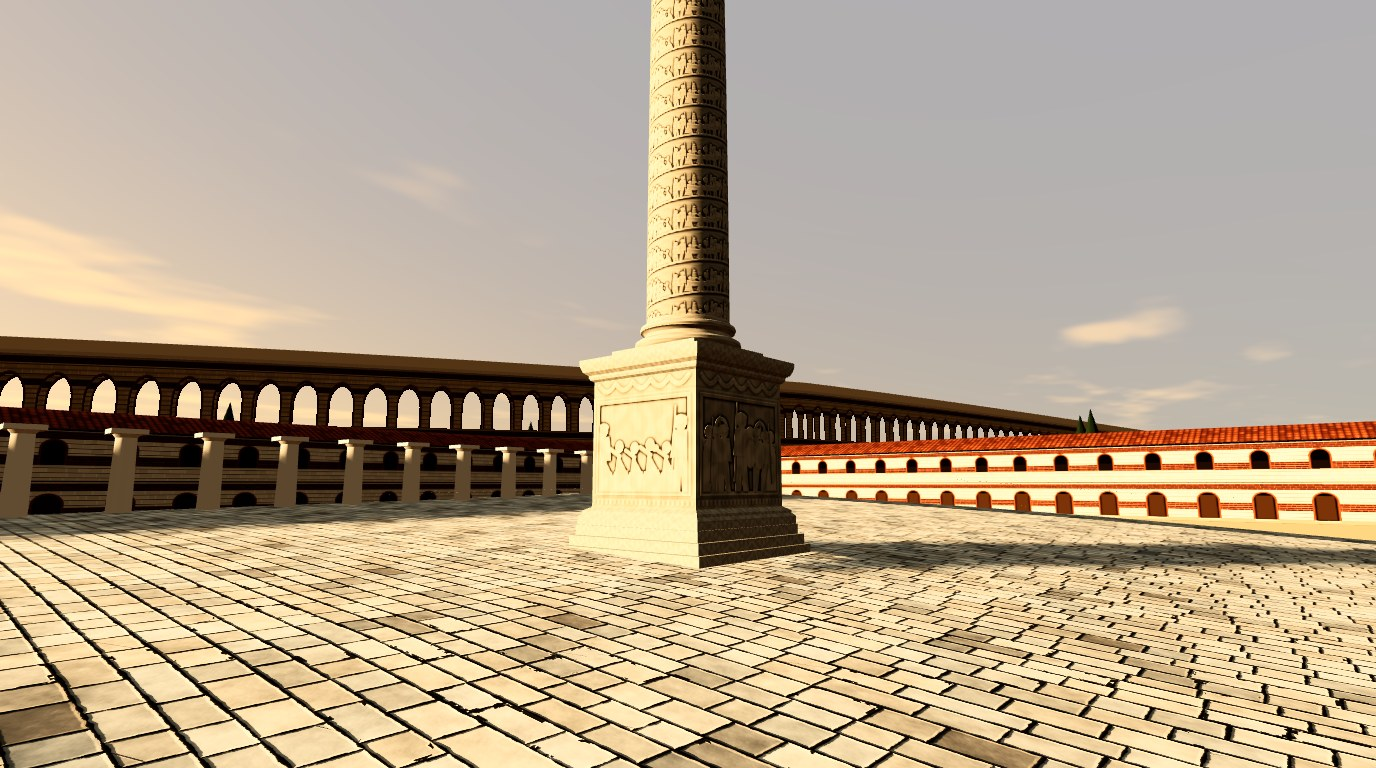
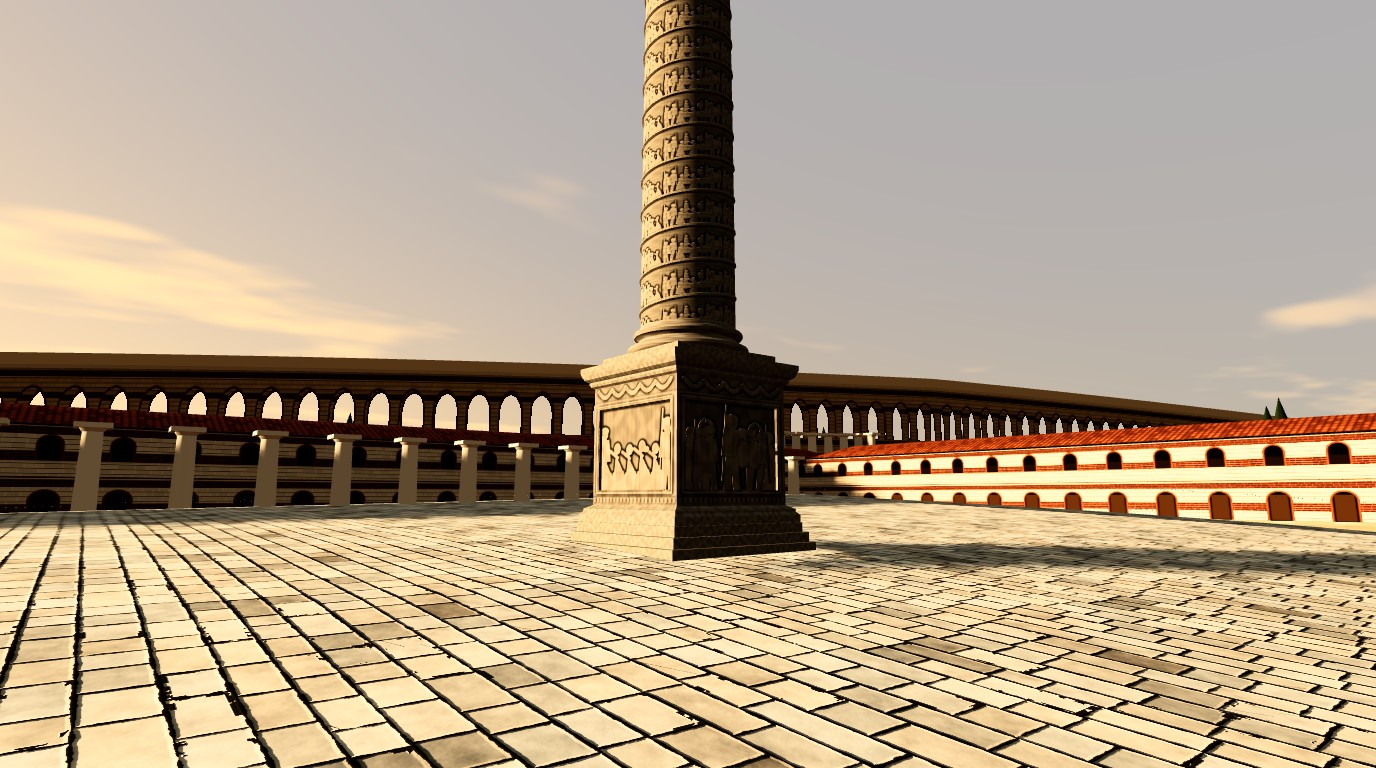
南港 3D 纪功柱修订：浮雕加深（螺旋真棱 + 基座画框真凹）、受光面在地标材质里压暗、像和柱头放大 ——Hark（CS线）
为什么：主人看了 ff84e83 说三条——浮雕在 60 m 外读得浅；受光面太亮（只许改地标材质，sky.js / 全局光不动）；像和柱头比参考小。
- 浮雕：螺旋边带做成真几何凸棱（helixBand：沿贴图亮边带 v=u+2/256 扫 4 点剖面，凸 0.07 m，下面朝下，低太阳照不到 → 真暗线；近档 72 段/圈、远档 16 段/圈、施工中截到当年柱顶）；基座四面画框里的场真凹 0.12 m + 侧壁；浮雕法线 9→14、凹缝 AO 加深烘进反照率。
- 亮度：反照率压（柱身 [186,174,152]→[154,145,130]、基座/线脚同比、远档同比）、凹处暖色风化（relief 新参数 aoMin/low/patina，默认值同旧，别的调用不变）、像压暗收高光。
- 比例：柱头 2.6→4.0 m（≈柱下径，合科林斯常规）、像座 3.0→3.8、像 7.5→9.3 m；基座 8.75→7.3 m、宽 ×0.89，柱身 27→25.6 m；总高 51.05→51.95 m。像没重烘，按尺寸等比放大。

不变量：
- 底账无改动（forum_theodosius 中心/seed、era_0051 phases：64 年立到顶，58–63 施工中）。core.js、shots.json、sky.js、buildings.js 都没动；只改 3d/landmarks/column.js 和 kit/relief.js。
- 柱头仍是科林斯式；施工阶段、THREE.LOD 近/远、?lmmask=1、确定性（只用 seed，无 Math.random）照旧。年份 57/58/60/63/64/65/70 来回拨无报错。

证据（沙箱 SwiftShader，只看样子；帧率待 Mac 实测），docs/cs/lookdev/landmarks/column/：overview.jpg、sbs_shot5.jpg（参考 | ff84e83 | 修订）、zoom_shot5.jpg、after_base_close.jpg、after_far_year65.jpg、silhouette_after.png / silhouette_ff84e83.png、numbers.json（revision_2026_10_20b）、notes.md「修订」节。
- 机位 5（3 轮）：IoU 框 0.749→0.827、按高 0.789→0.858；高宽比 4.37→5.00（参考 5.35）；像/柱头/柱身/基座 0.163/0.049/0.552/0.235→0.204/0.067/0.532/0.197（参考 0.220/0.074/0.521/0.185）。
- 柱子蒙版内：L* 54.2→41.9（39.9）、受光面 p90 95.5→88.8（84.5）、边缘 0.218→0.326（0.295）。
- match.py --against ff84e83 同机位重渲：机位 1–4 全局 + 12 带 ΔL*=0.00、边缘 +0.0%；逐像素只有机位 1 的 61 像素（51 在柱子蒙版 ±3 px，10 在下面一行影子）。
- 三角形：近档 33,484→41,288、远档 2,204→3,920、第 60 年施工中 3,090→4,180；几何建造 ≈37 ms。check_docs 0 missing、check_flags 通过。
[…]

diff --git a/docs/living/nodes/nangang/3d/landmarks/column.js b/docs/living/nodes/nangang/3d/landmarks/column.js
@@ -5,8 +5,8 @@
      58–63 年画施工中（基座 + 按年份长高的柱身鼓石 + 木脚手架），57 年只有广场没有柱子。
    史料（形制，底账没写的部分；来源见 docs/cs/lookdev/landmarks/column/notes.md）：白色大理石、螺旋浮雕带（自左向右上升）、仿图拉真柱，
    总高约 40–50 m；顶上是狄奥多西的巨像（镀银青铜）。假设：柱头做科林斯式（主人要茛苕叶；图拉真柱其实是多立克式）、基座四面浮雕、像的姿势。
-   尺寸（米，自台阶底起）：台阶 3 级 1.8 → 基座（线脚 + 浮雕身 + 檐口）到 9.5 → 阿提卡柱础到 11.35 → 柱身 27 m（17 节鼓石、18 圈浮雕、收分 1.95→1.70）
-   → 柱头 2.2 → 像座 1.65 → 像 5.3，总高 ≈ 47.9 m ≈ 57 页面像素（1 像素 ≈ 0.84 米）。
+   尺寸（米，自台阶底起；2026-10-20 第二遍修订后，见 DIM）：台阶 3 级 1.1 → 基座（线脚 + 浮雕身 + 檐口）到 7.3 → 阿提卡柱础到 8.9 → 柱身 25.6 m
+   （17 节鼓石、18 圈浮雕 + 一条真几何的螺旋边棱、收分 1.95→1.70）→ 柱颈环 → 柱头 4.0 → 像座 3.8 → 像 9.3，总高 51.95 m ≈ 61.8 页面像素（1 像素 ≈ 0.84 米）。
    结构：近档（细节、法线贴图、烘焙雕像）/ 远档（几十个面的旋转体 + 低模像）用 THREE.LOD 按到相机的距离切（450 像素）。
    确定性：贴图和叶片的变化只用底账的 seed。?lmmask=1 把所有地标材质换成纯品红（silhouette.py 用来抠轮廓）。 */
 import { lathe, squareLathe, merge, box } from './kit/lathe.js';
@@ -20,7 +20,13 @@ const STATUE_LO = await loadBaked(new URL('./column/statue_lo.bin', import.meta.
 export const id = 'forum_theodosius';
 export const PHASE = { pedestal: 58, top: 64 };          // proposals/era_0051.json：64 年立到顶；58 年起基座（假设：开工第二年）
 const K = 1 / 0.84;                                        // 米 → 页面像素
-export const DIM = { steps: 1.35, pedTop: 8.75, shaft0: 10.6, shaft1: 37.6, cap0: 37.95, cap1: 40.55, drum1: 43.55, statue: 7.5 };
+// 2026-10-20 修订（主人：像和柱头比参考小）：柱头 2.6→4.0 m（科林斯柱头高 ≈ 柱下径 3.9 m，合规矩）、像座 3.0→3.8、像 7.5→9.3 m（≈ 真人 5 倍）；
+// 总高只涨 0.9 m（51.05→51.95）：基座 8.75→7.3 m、基座宽 ×0.89（参考的基座更瘦更矮）、柱础 1.85→1.6 m、柱身 27→25.6 m。
+export const DIM = { steps: 1.1, pedTop: 7.3, shaft0: 8.9, shaft1: 34.5, cap0: 34.85, cap1: 38.85, drum1: 42.65, statue: 9.3 };
+const PV = 7.3 / 8.75, PW = 0.89;                          // 基座剖面（原来按 8.75 m 高写的）竖向 / 横向缩放
+const BASE = y => DIM.pedTop + (y - 8.75) * (DIM.shaft0 - DIM.pedTop) / (10.6 - 8.75);   // 柱础剖面（原 8.75→10.6）映到 pedTop→shaft0
+const DRUM = y => DIM.cap1 + (y - 40.55) * (DIM.drum1 - DIM.cap1) / (43.55 - 40.55);       // 像座剖面（原 40.55→43.55）映到 cap1→drum1
+const DR = 1.1;                                           // 像座加粗一点，托得住 9 m 的像
 const WIND = 18, DRUMS = 17, LOD_FAR = 450;
 
 let T = null, M = null, CACHE = null;
@@ -60,10 +66,10 @@ function shaftTex(seed) {
       }
       // 边带（略凸的窄条），画在人物之后，压住脚
       g.strokeStyle = 'rgb(245,245,245)'; g.lineWidth = 18; g.beginPath(); g.moveTo(-40, H + 40 / W * H - 2); g.lineTo(W + 40, H - (W + 40) / W * H - 2); g.stroke();
-      g.strokeStyle = 'rgb(0,0,0)'; g.lineWidth = 22; g.beginPath(); g.moveTo(-40, H + 40 / W * H + 20); g.lineTo(W + 40, H - (W + 40) / W * H + 20); g.stroke();
+      g.strokeStyle = 'rgb(40,40,40)'; g.lineWidth = 18;   // 边带下的暗缝：真几何的下棱已经给了阴影，贴图里不再画死黑 g.beginPath(); g.moveTo(-40, H + 40 / W * H + 20); g.lineTo(W + 40, H - (W + 40) / W * H + 20); g.stroke();
       g.restore();
     }
-  }, { seed, wrapX: true, wrapY: true, blur: 1, strength: 9, aoR: 8, ao: 4.0, base: [186, 174, 152], dirt: 0.1 });
+  }, { seed, wrapX: true, wrapY: true, blur: 1, strength: 14, aoR: 8, ao: 5.0, aoMin: 0.36, low: 0.18, base: [154, 145, 130], dirt: 0.12, streak: 0.06, patina: 0.35 });
 }
 
 function pedestalTex(seed) {
@@ -92,11 +98,11 @@ function pedestalTex(seed) {
       rect(g, 0, S - 40, S, 40, 0.55); for (let x = 8; x < S; x += 22) rect(g, x, S - 30, 12, 20, 0.7);
       g.restore();
     }
-  }, { seed, blur: 1, strength: 7, aoR: 7, ao: 3.0, base: [188, 174, 150], dirt: 0.1, streak: 0.05 });
+  }, { seed, blur: 1, strength: 11, aoR: 7, ao: 4.5, aoMin: 0.34, low: 0.2, base: [148, 139, 125], dirt: 0.12, streak: 0.07, patina: 0.3 });
 }
 
 function marbleTex(seed) {
-  return relief(T, 256, 256, (g) => { rect(g, 0, 0, 256, 256, 0.5); for (let y = 0; y < 256; y += 64) rect(g, 0, y, 256, 2, 0.35); }, { seed, wrapX: true, wrapY: true, blur: 1, strength: 2, aoR: 3, ao: 1.2, base: [190, 178, 156], dirt: 0.12 });
+  return relief(T, 256, 256, (g) => { rect(g, 0, 0, 256, 256, 0.5); for (let y = 0; y < 256; y += 64) rect(g, 0, y, 256, 2, 0.35); }, { seed, wrapX: true, wrapY: true, blur: 1, strength: 2, aoR: 3, ao: 1.2, base: [150, 142, 128], dirt: 0.14, patina: 0.25 });
 }
 
 export function init(ctx) {
@@ -109,8 +115,8 @@ export function init(ctx) {
     ped: new T.MeshLambertMaterial({ map: pd.map, normalMap: pd.normalMap, normalScale: ns }),
     marble: new T.MeshLambertMaterial({ map: mb.map, normalMap: mb.normalMap }),
     cap: new T.MeshLambertMaterial({ map: mb.map, side: T.DoubleSide }),
-    statue: new T.MeshPhongMaterial({ color: 0x968c7c, specular: 0x8a7e6a, shininess: 34 }),     // 镀银青铜（史料），按风化后的暗银处理；假设：不鎏金
-    far: new T.MeshLambertMaterial({ color: 0xbcae94 }),
+    statue: new T.MeshPhongMaterial({ color: 0x7c7366, specular: 0x4a443a, shininess: 24 }),     // 镀银青铜（史料），按风化后的暗银处理；假设：不鎏金
+    far: new T.MeshLambertMaterial({ color: 0x9b917f }),
     timber: new T.MeshLambertMaterial({ color: 0x7b5b3c }),
   };
   if (ctx.QS.has('lmmask')) { const mk = new T.MeshBasicMaterial({ color: 0xff00ff, fog: false, toneMapped: false, side: T.DoubleSide }); for (const k in M) M[k] = mk; }
@@ -118,27 +124,56 @@ export function init(ctx) {
 
 /* ---- 几何（局部坐标：原点 = 台阶底面中心，y 向上，单位 = 页面像素；基座顺 (ax, az)） ---- */
 function pedestalGeos(ax, az) {
-  const s = (h, y) => [h * K, y * K];
+  const s = (h, y) => [h * PW * K, y * PV * K];
   const steps = squareLathe(T, [s(3.95, -3), s(3.95, 0.45), s(3.75, 0.45), s(3.75, 0.9), s(3.55, 0.9), s(3.55, 1.35)], { ax, az, uv: 4 });
   const plinth = squareLathe(T, [s(3.5, 1.35), s(3.5, 1.7), s(3.36, 1.84), s(3.36, 1.96), s(3.22, 2.04), s(3.1, 2.1), s(3.05, 2.14)], { ax, az, uv: 4, top: false });
   const cornice = squareLathe(T, [s(3.05, 7.75), s(3.18, 7.83), s(3.24, 7.94), s(3.24, 8.05), s(3.42, 8.18), s(3.5, 8.36), s(3.55, 8.55), s(3.55, 8.75)], { ax, az, uv: 4 });
   // 浮雕身：四个面，图集四格
-  const P = [], U = [], h = 3.05 * K, y0 = 2.14 * K, y1 = 7.75 * K, C = (u, v) => [ax * u - az * v, az * u + ax * v];
+  const P = [], U = [], h = 3.05 * PW * K, y0 = 2.14 * PV * K, y1 = 7.75 * PV * K, C = (u, v) => [ax * u - az * v, az * u + ax * v];
   const k = [C(-h, h), C(h, h), C(h, -h), C(-h, -h)]; // 南面（+v）、东、北、西：逆时针从外看
   const cells = [[0, 1], [1, 1], [0, 0], [1, 0]];        // 画布 2×2：左上=南 右上=东 左下=北 右下=西（v 向上 → 画布上半 = v 0.5..1）
+  // 浮雕画框里的「场」真的往里凹 0.12 m（画框 = 贴图里 frame() 的内边：x 38–474、y 100–450，512 一格），四圈侧壁；凹进去的场在侧光下有一圈真阴影
+  const FX = [38 / 512, 474 / 512], FY = [100 / 512, 450 / 512], dep = 0.12 * K;
   for (let i = 0; i < 4; i++) {
     const a = k[i], b = k[(i + 1) % 4], [cu, cv] = cells[i], u0 = cu * .5, v0 = cv * .5;
-    const q = [[a[0], y0, a[1]], [b[0], y0, b[1]], [b[0], y1, b[1]], [a[0], y1, a[1]]], uq = [[u0, v0], [u0 + .5, v0], [u0 + .5, v0 + .5], [u0, v0 + .5]];
-    for (const j of [0, 1, 2, 0, 2, 3]) { P.push(...q[j]); U.push(...uq[j]); }
+    const ex = b[0] - a[0], ez = b[1] - a[1], el = Math.hypot(ex, ez), nx = ez / el, nz = -ex / el;   // 指向里面的法线（a→b 从外看是从左到右）
+    const pt = (px, cy, inset) => { const y = y1 + (y0 - y1) * cy, x = a[0] + ex * px + nx * inset, z = a[1] + ez * px + nz * inset; return [[x, y, z], [u0 + .5 * px, v0 + .5 * (1 - cy)]]; };
+    const quad = (A, B, C, D) => { for (const v of [A, B, C, A, C, D]) { P.push(...v[0]); U.push(...v[1]); } };
+    const sq = (px0, cy0, px1, cy1, ins) => quad(pt(px0, cy1, ins), pt(px1, cy1, ins), pt(px1, cy0, ins), pt(px0, cy0, ins));   // 下左 → 下右 → 上右 → 上左（cy 向下）
+    sq(0, 0, 1, FY[0], 0); sq(0, FY[1], 1, 1, 0); sq(0, FY[0], FX[0], FY[1], 0); sq(FX[1], FY[0], 1, FY[1], 0);   // 画框四边（面上）
+    sq(FX[0], FY[0], FX[1], FY[1], dep);                                                                       // 凹进去的场
+    const c = [[FX[0], FY[1]], [FX[1], FY[1]], [FX[1], FY[0]], [FX[0], FY[0]]];                                   // 场的四角：下左、下右、上右、上左
+    for (let e = 0; e < 4; e++) { const [p0, q0] = c[e], [p1, q1] = c[(e + 1) % 4]; quad(pt(p0, q0, 0), pt(p1, q1, 0), pt(p1, q1, dep), pt(p0, q0, dep)); }   // 侧壁（法线朝场里）
   }
   const die = new T.BufferGeometry(); die.setAttribute('position', new T.Float32BufferAttribute(P, 3)); die.setAttribute('uv', new T.Float32BufferAttribute(U, 2)); die.computeVertexNormals();
   return { stone: [steps, plinth, cornice], die };
 }
 
+/* 螺旋带的真几何：沿浮雕贴图里那条亮边带（v = u + 2/256，一圈一个节距）扫一条凸出的窄棱。
+   下面是朝下的面（低太阳照不到 → 一条真的暗线），上面是斜面；60 m 外读得出螺旋，贴图法线做不到这个。 */
+function helixBand(perTurn, depth, yTop = DIM.shaft1) {
+  const pitch = (DIM.shaft1 - DIM.shaft0) / WIND, n = Math.floor(WIND * perTurn), P = [], N = [];
+  const prof = [[-0.01, -0.09], [depth, -0.045], [depth * 0.8, 0.04], [-0.01, 0.09]];      // (径向外凸 m, 竖向 m)，相对带中心
+  const segN = []; for (let k = 0; k < 3; k++) { const [r0, y0] = prof[k], [r1, y1] = prof[k + 1], L = Math.hypot(r1 - r0, y1 - y0); segN.push([(y1 - y0) / L, -(r1 - r0) / L]); }
+  const at = (t, k) => { const yc = DIM.shaft0 + (t + 2 / 256) * pitch, th = t * Math.PI * 2, r = (shaftR(yc) * 0.995 + prof[k][0]) * K, y = (yc + prof[k][1]) * K; return [r * Math.cos(th), y, -r * Math.sin(th), th]; };
+  for (let i = 0; i < n; i++) {
+    const t0 = i / perTurn, t1 = (i + 1) / perTurn;
+    if (DIM.shaft0 + (t1 + 2 / 256) * pitch + 0.1 > yTop) break;
+    for (let k = 0; k < 3; k++) {
+      const a = at(t0, k), b = at(t1, k), c = at(t1, k + 1), d = at(t0, k + 1), [nr, ny] = segN[k];
+      const q = [a, b, c, a, c, d];
+      for (const v of q) { P.push(v[0], v[1], v[2]); N.push(nr * Math.cos(v[3]), ny, -nr * Math.sin(v[3])); }
+    }
+  }
+  const g = new T.BufferGeometry(); g.setAttribute('position', new T.Float32BufferAttribute(P, 3)); g.setAttribute('normal', new T.Float32BufferAttribute(N, 3));
+  const U = new Float32Array(P.length / 3 * 2); for (let i = 0; i < U.length / 2; i++) { U[i * 2] = P[i * 3] / K / 1.5; U[i * 2 + 1] = P[i * 3 + 1] / K / 1.5; } g.setAttribute('uv', new T.BufferAttribute(U, 2));
+  return g;
+}
+
 function baseAndShaft(segs, yTop = DIM.shaft1) {
   const s = (r, y) => [r * K, y * K];
-  const plinth = squareLathe(T, [s(2.5, 8.75), s(2.5, 9.2)], { uv: 4 });
-  const base = lathe(T, [s(2.3, 9.2), s(2.42, 9.29), s(2.48, 9.43), s(2.45, 9.57), s(2.3, 9.67), s(2.12, 9.71), s(2.02, 9.81), s(1.99, 9.93), s(2.08, 10.03), s(2.2, 10.07), s(2.25, 10.19), s(2.2, 10.31), s(2.06, 10.37), s(2.0, 10.39), s(2.0, 10.47), s(1.95, 10.6)], segs, { v: y => y / K / 1.5 });
+  const plinth = squareLathe(T, [s(2.5, BASE(8.75)), s(2.5, BASE(9.2))], { uv: 4 });
+  const base = lathe(T, [[2.3, 9.2], [2.42, 9.29], [2.48, 9.43], [2.45, 9.57], [2.3, 9.67], [2.12, 9.71], [2.02, 9.81], [1.99, 9.93], [2.08, 10.03], [2.2, 10.07], [2.25, 10.19], [2.2, 10.31], [2.06, 10.37], [2.0, 10.39], [2.0, 10.47], [1.95, 10.6]].map(([r, y]) => s(r, BASE(y))), segs, { v: y => y / K / 1.5 });
   const prof = [];
   const top = Math.min(yTop, DIM.shaft1), dz = (DIM.shaft1 - DIM.shaft0) / DRUMS;
   for (let i = 0; i < DRUMS; i++) {
@@ -154,9 +189,10 @@ function baseAndShaft(segs, yTop = DIM.shaft1) {
 
 function topGeos(segs, far) {
   const s = (r, y) => [r * K, y * K];
-  const astr = lathe(T, [s(1.72, 37.6), s(1.8, 37.67), s(1.8, 37.8), s(1.72, 37.87), s(1.7, 37.95)], segs);
-  const drum = lathe(T, [s(1.5, 40.55), s(1.5, 40.75), s(1.36, 40.92), s(1.3, 41.0), s(1.3, 43.15), s(1.4, 43.28), s(1.5, 43.46), s(1.5, 43.55), s(0, 43.56)], segs, { v: y => y / K / 1.5 });
-  const cap = corinthian(T, { r: 1.7 * K, h: 2.6 * K, a: 2.85 * K, seed: 11, lod: far ? 'far' : 'near' });
+  const a0 = DIM.shaft1, da = DIM.cap0 - DIM.shaft1;       // 柱颈环（astragal）
+  const astr = lathe(T, [s(1.72, a0), s(1.8, a0 + da * .2), s(1.8, a0 + da * .57), s(1.72, a0 + da * .77), s(1.7, a0 + da)], segs);
+  const drum = lathe(T, [[1.5, 40.55], [1.5, 40.75], [1.36, 40.92], [1.3, 41.0], [1.3, 43.15], [1.4, 43.28], [1.5, 43.46], [1.5, 43.55]].map(([r, y]) => s(r * DR, DRUM(y))).concat([s(0, DIM.drum1 + .01)]), segs, { v: y => y / K / 1.5 });
+  const cap = corinthian(T, { r: 1.7 * K, h: (DIM.cap1 - DIM.cap0) * K, a: 3.0 * K, seed: 11, lod: far ? 'far' : 'near' });
   cap.translate(0, DIM.cap0 * K, 0);
   return { stone: [astr, drum], cap };
 }
@@ -173,6 +209,7 @@ function nearGroup(ax, az, rotY) {
   G.add(meshOf(merge(T, [...pd.stone, ...bs.stone, ...tp.stone]), M.marble));
   G.add(meshOf(pd.die, M.ped));
   G.add(meshOf(bs.shaft, M.shaft));
+  G.add(meshOf(helixBand(72, 0.07), M.marble));
   G.add(meshOf(tp.cap, M.cap));
   G.add(statueMesh(STATUE_HI, M.statue, rotY));
   return G;
@@ -180,11 +217,13 @@ function nearGroup(ax, az, rotY) {
 function farGroup(ax, az, rotY) {
   const G = new T.Group(); G.name = 'column-far';
   const s = (h, y) => [h * K, y * K];
-  const ped = squareLathe(T, [s(3.95, -3), s(3.95, 1.35), s(3.5, 1.35), s(3.5, 2.1), s(3.05, 2.14), s(3.05, 7.8), s(3.55, 8.3), s(3.55, 8.75)], { ax, az, uv: 4 });
-  const col = lathe(T, [s(2.4, 8.75), s(2.4, 9.75), s(1.95, 10.6), s(1.7, 37.6), s(1.8, 37.75), s(1.7, 37.95)], 10);
-  const drum = lathe(T, [s(1.5, 40.55), s(1.3, 41.0), s(1.3, 43.2), s(1.5, 43.55), s(0, 43.56)], 8);
-  const cap = corinthian(T, { r: 1.7 * K, h: 2.6 * K, a: 2.85 * K, lod: 'far' }); cap.translate(0, DIM.cap0 * K, 0);
+  const sp = (h, y) => [h * PW * K, y * PV * K];
+  const ped = squareLathe(T, [sp(3.95, -3), sp(3.95, 1.35), sp(3.5, 1.35), sp(3.5, 2.1), sp(3.05, 2.14), sp(3.05, 7.8), sp(3.55, 8.3), sp(3.55, 8.75)], { ax, az, uv: 4 });
+  const col = lathe(T, [s(2.4, DIM.pedTop), s(2.4, BASE(9.75)), s(1.95, DIM.shaft0), s(1.7, DIM.shaft1), s(1.8, DIM.shaft1 + .15), s(1.7, DIM.cap0)], 10);
+  const drum = lathe(T, [s(1.5 * DR, DIM.cap1), s(1.3 * DR, DRUM(41.0)), s(1.3 * DR, DRUM(43.2)), s(1.5 * DR, DIM.drum1), s(0, DIM.drum1 + .01)], 8);
+  const cap = corinthian(T, { r: 1.7 * K, h: (DIM.cap1 - DIM.cap0) * K, a: 3.0 * K, lod: 'far' }); cap.translate(0, DIM.cap0 * K, 0);
   G.add(meshOf(merge(T, [ped, col, drum, cap]), M.far));
+  G.add(meshOf(helixBand(16, 0.10), M.far));            // 远档也留螺旋带的暗棱（天际线上读得出是螺旋柱）
   G.add(statueMesh(STATUE_LO, M.statue, rotY));
   return G;
 }
@@ -197,7 +236,7 @@ function construction(ax, az, year) {
   const parts = [...pd.stone];
   let shaft = null;
   if (nd > 0) { const bs = baseAndShaft(32, top); parts.push(...bs.stone); shaft = bs.shaft; }
-  G.add(meshOf(merge(T, parts), M.marble)); G.add(meshOf(pd.die, M.ped)); if (shaft) G.add(meshOf(shaft, M.shaft));
+  G.add(meshOf(merge(T, parts), M.marble)); G.add(meshOf(pd.die, M.ped)); if (shaft) { G.add(meshOf(shaft, M.shaft)); G.add(meshOf(helixBand(36, 0.07, top), M.marble)); }
   // 脚手架：8 根立杆绕柱身，每 2 m 一圈横杆，顶上一层平台
   const yA = DIM.pedTop * K, yB = (Math.max(top, DIM.pedTop + 2) + 2.5) * K, R0 = 3.0 * K, sc = [];
   for (let i = 0; i < 8; i++) { const a = i / 8 * Math.PI * 2; sc.push(box(T, .09 * K, (yB - yA) / 2, .09 * K, Math.cos(a) * R0, (yA + yB) / 2, Math.sin(a) * R0)); }

diff --git a/docs/living/nodes/nangang/3d/landmarks/kit/relief.js b/docs/living/nodes/nangang/3d/landmarks/kit/relief.js
@@ -1,7 +1,8 @@
 /* landmarks 部件 · 程序化浮雕贴图：高度图（画布里画灰度形状）→ 模糊 → 法线贴图 + 带凹缝暗部的反照率贴图。——Hark（CS线）2026-10-20
    不贴照片、不下载：所有人物、花环、框都是代码画的形状。确定性：随机一律用 rng(seed)（mulberry32）。
    不用 ctx.filter（Safari 不支持），模糊自己做（可分离盒式模糊，两遍 ≈ 高斯）。
-     const R = relief(T, W, H, (g, rng) => {...画高度：黑 = 最深，白 = 最高...}, {seed, blur, strength, base, ao})
+     const R = relief(T, W, H, (g, rng) => {...画高度：黑 = 最深，白 = 最高...}, {seed, blur, strength, base, ao, aoMin, low, patina})
+       aoMin = 凹缝最暗到多少（默认 0.42）；low = 高度 0 的「地」额外压暗多少（默认 0.1 = 以前的 0.9+0.1h）；patina = 暖色风化 0..1
      → {map, normalMap}（CanvasTexture；map 是 sRGB，normalMap 是线性）
    画人物的小函数（figure / captive / victory / garland / frame）在这里，凯旋门、方尖碑底座等以后照样用。 */
 export function rng(seed) {
@@ -38,7 +39,7 @@ export function relief(T, W, H, paint, opt = {}) {
   for (let i = 0; i < W * H; i++) h[i] = src[i * 4] / 255;
   h = boxBlur(boxBlur(h, W, H, opt.blur ?? 1, wrapX, wrapY), W, H, opt.blur ?? 1, wrapX, wrapY);
   const big = boxBlur(boxBlur(h, W, H, opt.aoR ?? 6, wrapX, wrapY), W, H, opt.aoR ?? 6, wrapX, wrapY);
-  const s = opt.strength ?? 6, base = opt.base ?? [236, 227, 210], aoK = opt.ao ?? 2.2, dirt = opt.dirt ?? 0.06;
+  const s = opt.strength ?? 6, base = opt.base ?? [236, 227, 210], aoK = opt.ao ?? 2.2, dirt = opt.dirt ?? 0.06, aoMin = opt.aoMin ?? 0.42, lowK = opt.low ?? 0.1, pat = opt.patina ?? 0;
   const nimg = g.createImageData(W, H), aimg = g.createImageData(W, H), N = nimg.data, A = aimg.data;
   const at = (x, y) => h[(wrapY ? (y % H + H) % H : Math.max(0, Math.min(H - 1, y))) * W + (wrapX ? (x % W + W) % W : Math.max(0, Math.min(W - 1, x)))];
   // 低频斑驳（风化）：几层不同尺度的确定性正弦和，避免再开一个噪声库
@@ -49,10 +50,12 @@ export function relief(T, W, H, paint, opt = {}) {
     const L = Math.hypot(nx, ny, nz); nx /= L; ny /= L; nz /= L;
     N[i * 4] = (nx * .5 + .5) * 255; N[i * 4 + 1] = (ny * .5 + .5) * 255; N[i * 4 + 2] = (nz * .5 + .5) * 255; N[i * 4 + 3] = 255;
     const cav = Math.max(0, big[i] - h[i]);
-    const ao = Math.max(0.42, 1 - aoK * cav) * (0.9 + 0.1 * h[i]);
+    const ao = Math.max(aoMin, 1 - aoK * cav) * (1 - lowK * (1 - h[i]));   // 凹缝（cavity）压暗 + 越深的「地」越暗（lowK）
     let m = 0; for (let k = 0; k < 6; k++) m += Math.sin((x / W) * fr[k] * 6.283 * (wrapX ? 1 : 1.3) + ph[k]) * Math.sin((y / H) * fr[(k + 2) % 6] * 6.283 + ph[(k + 3) % 6]);
     const w = 1 - dirt * (0.5 + 0.5 * Math.tanh(m)) - (opt.streak ? opt.streak * Math.max(0, Math.sin(x * 0.37 + ph[1]) * Math.sin(x * 0.11 + ph[2])) : 0);
-    A[i * 4] = Math.min(255, base[0] * ao * w); A[i * 4 + 1] = Math.min(255, base[1] * ao * w); A[i * 4 + 2] = Math.min(255, base[2] * ao * w * 0.985); A[i * 4 + 3] = 255;
+    // 暖色风化（patina）：另一组低频起伏决定往赭黄偏多少，凹处偏得多一点（积灰）；pat = 0 时和以前一样
+    const pw = pat * (0.5 + 0.5 * Math.tanh(1.5 * Math.sin((x / W) * fr[4] * 6.283 + ph[5]) * Math.sin((y / H) * fr[1] * 3.1 + ph[0]))) * (0.6 + 0.8 * Math.min(1, cav * 6));
+    A[i * 4] = Math.min(255, base[0] * ao * w * (1 + 0.03 * pw)); A[i * 4 + 1] = Math.min(255, base[1] * ao * w * (1 - 0.03 * pw)); A[i * 4 + 2] = Math.min(255, base[2] * ao * w * (0.985 - 0.12 * pw)); A[i * 4 + 3] = 255;
   }
   const mk = (img, srgb) => {
     const c = document.createElement('canvas'); c.width = W; c.height = H; c.getContext('2d').putImageData(img, 0, 0);

diff --git a/NOW.md b/NOW.md
@@ -17,16 +17,17 @@
 | 长卷街区细化（街名路牌、招牌、坡地台基台阶、柱廊额枋） | scroll.html | 10-20 提交 b506e82、ff210df | 待评 |
 | 居民：姿势引擎 + 人群 + 户籍关系 | scroll.html?n=net&crowd=N | tools/cs/people/README.md；Mac 实测一万人 100 fps | 模型不再细抠（10-19）；关系接入待评 |
 | 3D lookdev 第 2 轮（8 模块合并：低太阳 + 调色、立面/柱廊/粮仓、石板街、港水倒影、区外陆地和远岸、船吊车货堆、树、5966 口人） | docs/living/nodes/nangang/3d.html（`?shot=1..4` 看固定机位） | `docs/cs/lookdev/r2/report.md`、`docs/cs/lookdev/r2/overview.jpg`；沙箱：模块验收 9/12 条过，三角形 1.58–1.60 M | 待评（帧率待 Mac 实测） |
-| 3D 地标试点：狄奥多西广场纪功柱（landmarks 模块第一座） | docs/living/nodes/nangang/3d.html?shot=5（第 65 年；第 60 年是施工中） | `docs/cs/lookdev/landmarks/column/notes.md`、`docs/cs/lookdev/landmarks/column/overview.jpg`；轮廓 IoU 0.51→0.75（框对齐）、0.66→0.79（按高）；机位 1–4 match 全过 | 待评（帧率待 Mac 实测） |
+| 3D 地标试点：狄奥多西广场纪功柱（landmarks 模块第一座） | docs/living/nodes/nangang/3d.html?shot=5（第 65 年；第 60 年是施工中） | `docs/cs/lookdev/landmarks/column/notes.md`、`docs/cs/lookdev/landmarks/column/overview.jpg`；10-20 第二遍修订后轮廓 IoU 0.83（框对齐）/ 0.86（按高）、高宽比 5.0（参考 5.35）；机位 1–4 match 全过 | 待评（帧率待 Mac 实测） |
 
 灰度入口：docs/living/next/（主页加 ?flag=nodes-nangang 才露入口），第 2 轮总览和报告的链接在那页。
 
 ## 进行中
-- **南港 3D 地标（landmarks，10-20 开）**：主人 10-20 说 Mac 帧率够（60–90）、3D 样子可以接受，史诗/特殊公共建筑按 athenaion 的做法一座座做。第一座纪功柱已推：
+- **南港 3D 地标（landmarks，10-20 开）**：主人 10-20 说 Mac 帧率够（60–90）、3D 样子可以接受，史诗/特殊公共建筑按 athenaion 的做法一座座做。第一座纪功柱已推，当天按主人三条又修了一遍：
   - 一座一个文件 `docs/living/nodes/nangang/3d/landmarks/`（`index.js` 模块壳 + `column.js` + `kit/` 部件），core 的 MODULES 里只多了 `landmarks` 一项；buildings 里的占位圆柱删了。规矩和配方见 `docs/cs/lookdev/MODULE_CONTRACT.md` 第 7 节。
-  - 底账：`forum_theodosius` 中心；`proposals/era_0051.json` 写 64 年立到顶 → 58–63 年画施工中（基座 + 长高的柱身 + 脚手架）。假设（科林斯柱头、51 m、像 7.5 m 面朝西、镀银不鎏金）都写在 notes.md。
-  - 新工具 `tools/cs/lookdev/silhouette.py`（比形：IoU、高宽比、四段高度占比、蒙版内颜色）；雕像烘焙 `tools/cs/landmarks/bake_statue.py`。
-  - 剩下的差：浮雕在 60 m 外偏浅；受光面偏亮（全局光的事）；参考图里像和柱头更大（AI 夸张，没全跟）。
+  - 底账：`forum_theodosius` 中心；`proposals/era_0051.json` 写 64 年立到顶 → 58–63 年画施工中（基座 + 长高的柱身 + 脚手架）。假设（科林斯柱头、51.95 m、像 9.3 m 面朝西、镀银不鎏金）都写在 notes.md。
+  - 修订（主人：浮雕浅、受光面亮、像和柱头小）：螺旋边带做成真几何凸棱、基座画框的场真凹 0.12 m、凹缝 AO 烘进贴图；反照率在地标材质里压（sky / 全局光没动）；柱头 2.6→4.0 m、像 7.5→9.3 m、基座矮瘦。机位 5 数字：IoU 0.75→0.83、高宽比 4.37→5.00（5.35）、像/柱头占比 0.16/0.05→0.20/0.07（0.22/0.07）、蒙版 L* 54→42（40）、受光面 p90 95.5→88.8（84.5）、边缘 0.22→0.33（0.30）。近档 41,288 / 远档 3,920 三角形。
+  - 工具：`tools/cs/lookdev/silhouette.py`（比形）；雕像烘焙 `tools/cs/landmarks/bake_statue.py`（这次没重烘，按尺寸放大）。
+  - 剩下的差：阴面太黑（全局补光的事，地标里不抬）；受光面 p90 比目标高 0.8；饱和和边缘比参考高约 10–20%；像是暗银灰，参考画成深色青铜。
 - **南港 3D lookdev 第 2 轮：合并完成（10-20）**。7 个模块代理 + 导演合并都已推到 main。现状：
   - 4 个机位从「白模 + 正午平光」变成有光、有材质、有船有人的画面；机位 1、3、4 的光和调色过 sky 验收，机位 2 没过（顺光照亮整条街，参考是逆光）。
   - 导演改了：相机 far 9000→16000；机位 3 抬头左转（地平线 ≈0.14，看得到东岸和远岸），机位 3 旧基线数字不再可比，已在新机位重拍；sky 加冷灰天光补光，粮仓山墙不再是黑的；`__modStats` 改在出图后数三角形。
@@ -35,7 +36,7 @@
 - 古城（gucheng）：另一个会话在做，别碰它的文件。
 
 ## 等主人（Mac 上实测，沙箱的数字不算）
-- **纪功柱**：`3d.html?shot=5` 看一眼「留 / 再来」；Mac 上机位 5 的帧率（近档 33,484 三角形、远档 2,204）；像要不要更大 / 鎏金、柱头要不要改回史实更可能的多立克式。下一座做哪个（候选：宁芙殿、粮仓立面、广场凯旋门、蓄水池）。
+- **纪功柱**：`3d.html?shot=5` 看一眼「留 / 再来」；Mac 上机位 5 的帧率（近档 41,288 三角形、远档 3,920）；像要不要更大 / 鎏金、柱头要不要改回史实更可能的多立克式。下一座做哪个（候选：宁芙殿、粮仓立面、广场凯旋门、蓄水池）。
 - **帧率**：4 个机位在 `quality=high` 和 `quality=preview`、全部模块打开时的 fps 和最差一帧（预算 ≥60 fps、≤25 ms）。控制台 `window.__modStats` / `window.__trisTotal` 给三角形，`window.__crowdStats` 给人群 CPU 毫秒。
 - **三角形预算**：现在每个机位约 1.6 M（契约上限 3 M）；若 Mac 吃紧，先砍 props 港区货堆、terrain 远档。
 - **倒影开销**：water 的半分辨率平面倒影每帧多渲一遍场景，机位 1 开/关倒影各测一次帧率，决定要不要只在近水时开。

diff --git a/docs/cs/lookdev/MODULE_CONTRACT.md b/docs/cs/lookdev/MODULE_CONTRACT.md
@@ -160,6 +160,7 @@ export function tick(ctx, t) { … }        // 每帧；still 模式只在 __sti
 4. 机位：`shots.json` 加一个（core 允许的最小改动），用页面里的投影反算 fov/俯仰，让地标在画面里的上下边和参考一致；带 = 天空/地标/背景。
 5. 建：剖面（`kit/lathe.js`）→ 线脚和旋转体；浮雕（`kit/relief.js`）→ 法线 + 反照率；装饰件（`kit/acanthus.js` 一类参数曲面）；雕像/不规则体 → SDF + marching cubes 离线烘焙（`tools/cs/landmarks/bake_*.py`，浏览器里现算 > 300 ms 就烘焙）；`THREE.LOD` 近/远两档；`?lmmask=1` 蒙版。
 6. 比（≤ 4 轮）：`render.py` 主机位 + 全 4 机位；`compare.py` 颜色；`silhouette.py` 形；每轮 `read_file` 看并排图，先修形（比例、机位），再修材质（反照率、浮雕对比）。
+   远看浮雕浅时先上真几何（纪功柱：`column.js` 的 `helixBand` 螺旋凸棱、基座画框真凹 0.12 m），再加法线/AO；受光面亮在地标反照率里压，不动 sky / 全局光（10-20 修订）。
 7. 交付：`match.py --against <改前>` 证明机位 1–4 只有地标像素变；证据（并排、numbers.json、notes.md、overview.jpg）进 `docs/cs/lookdev/landmarks/<名字>/`；`docs/living/next/` 加链接；NOW.md 覆盖对应一段。
 
-**可以复用的部件**：`kit/lathe.js`（lathe / squareLathe / merge / box）、`kit/relief.js`（relief + soldier / captive / victory / garland / frame / ell / poly / line / rect）、`kit/acanthus.js`（corinthian，近/远）、`kit/baked.js`（读烘焙网格）、`tools/cs/landmarks/bake_statue.py`（SDF 原语 + 平滑并 + marching cubes + 量化写盘的模板）、`tools/cs/lookdev/silhouette.py`。
+**可以复用的部件**：`kit/lathe.js`（lathe / squareLathe / merge / box）、`kit/relief.js`（relief（`aoMin` 凹缝最暗、`low` 地压暗、`patina` 暖色风化；默认同旧）+ soldier / captive / victory / garland / frame / ell / poly / line / rect）、`kit/acanthus.js`（corinthian，近/远）、`kit/baked.js`（读烘焙网格）、`tools/cs/landmarks/bake_statue.py`（SDF 原语 + 平滑并 + marching cubes + 量化写盘的模板）、`tools/cs/lookdev/silhouette.py`。
